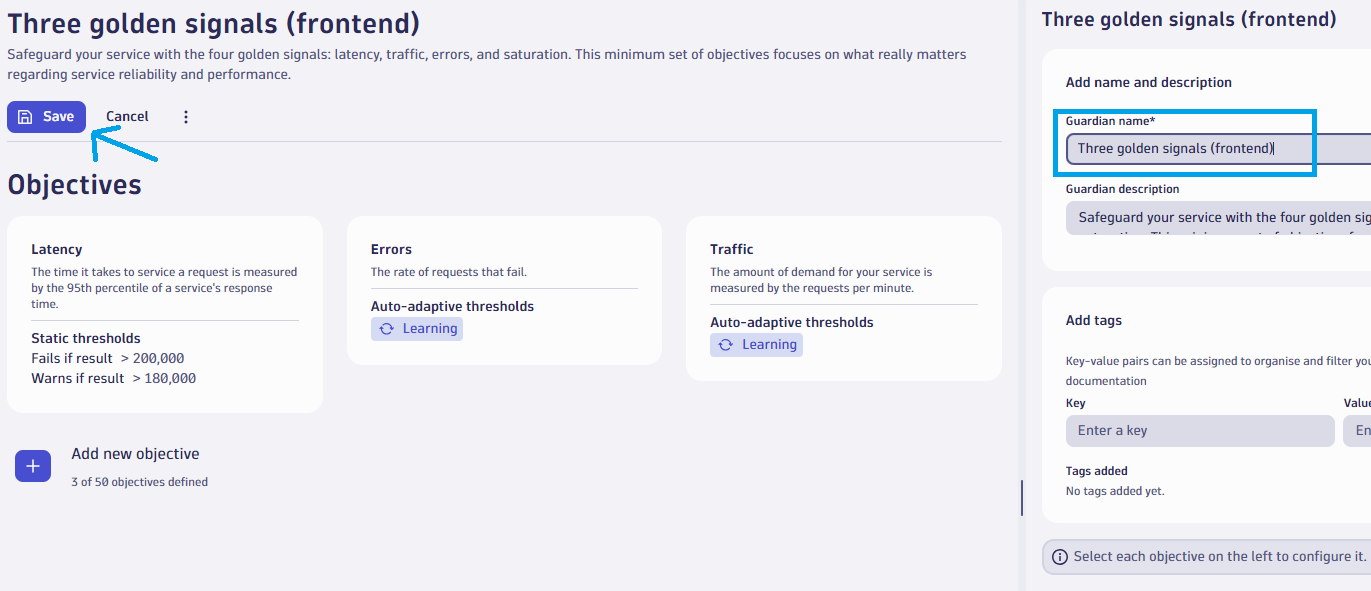
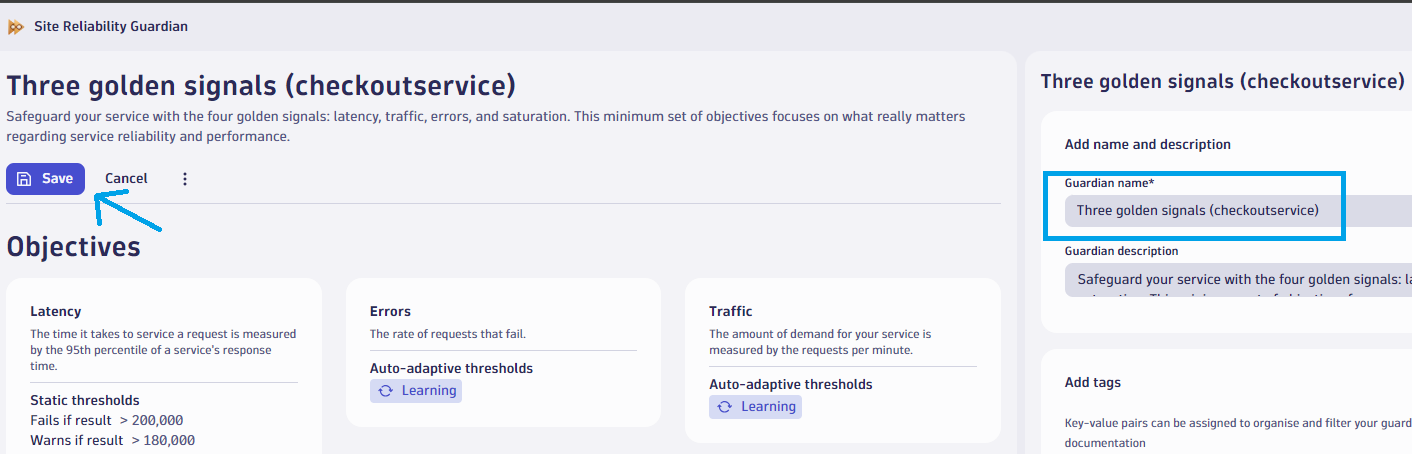
update

diff --git a/docs/create-srg.md b/docs/create-srg.md
@@ -2,19 +2,20 @@
 
 [Site reliability guardians](https://docs.dynatrace.com/docs/platform-modules/automations/site-reliability-guardian){target="_blank"} are a mechanism to automate analysis when changes are made. They can be used in production (on a CRON) or as deployment checks (eg. pre and post deployment health checks, security checks, infrastructure health checks).
 
-We will create a guardian to check the `frontend` microservice that the user interacts with.
+We will create a guardian to check the `checkoutservice` microservice which is used during the purchase journey.
 
 * Press `ctrl + k` search for `Site Reliability Guardian` and select the app.
 * Click `+ Guardian` to add a new guardian.
 * Under `Four Golden Signals` choose `Use template`.
-* Click `Run query` and select `frontend`. Click `Apply to template (1)`.
+* Click `Run query` and toggle `50` rows per page to see more services.
+* Select the `checkoutservice`. Click `Apply to template (1)`.
 * Hover over the `Saturation` objective and delete it (there are no resource statistics from OpenTelemetry available so this objective cannot be evaluated).
-* At the top right of the screen, customise the guardian name to be called `Three golden signals (frontend)`.
+* At the top right of the screen, customise the guardian name to be called `Three golden signals (checkoutservice)`.
 * Click `Save`
 
 ![dynatrace site reliability guardian: screen 1](images/dt-srg-screen-1.png)
 ![dynatrace site reliability guardian: screen 2](images/dt-srg-screen-2.png)
-![dynatrace site reliability guardian: screen 3](images/dt-srg-screen-3.png) # TODO: Update screenshot to highlight `frontend` not `frontend-web`
+![dynatrace site reliability guardian: screen 3](images/dt-srg-screen-3.png)
 ![dynatrace site reliability guardian: screen 4](images/dt-srg-screen-4.png)
 ![dynatrace site reliability guardian: screen 5](images/dt-srg-screen-5.png)
 

diff --git a/docs/enable-change.md b/docs/enable-change.md
@@ -1,4 +1,4 @@
-A product manager informs you that they're ready to release their new feature to the world. They ask you to enable the feature and run the load test test in a dev environment.
+A product manager informs you that they're ready to release their new feature. They ask you to enable the feature and run the load test in a dev environment.
 
 They tell you that the new feature is behind a flag called `paymentServiceFailure` (yes, an obvious name for this demo) and they tell you to change the `defaultValue` from `off` to `on`.
 
@@ -6,12 +6,12 @@ They tell you that the new feature is behind a flag called `paymentServiceFailur
 
 Run the following script which:
 
-- Notifies Dynatrace using a `CUSTOM_INFO` event of the change inc. the new value and the remediation info should a problem occur
+- Notifies Dynatrace using a `CUSTOM_INFO` event of the change inc. the new value
 - Changes the `defaultValue` of the `paymentServiceFailure` feature flag to `on`
 - Applies the configuration change
 
 ```
-./runtimeChange.sh paymentServiceFailure on off
+./runtimeChange.sh paymentServiceFailure on
 ```
 
 # Enable Automatic Baselining for Site Reliability Guardian

diff --git a/docs/automate-srg.md b/docs/automate-srg.md
@@ -29,7 +29,7 @@ export function teardown() {
       "event.provider": "k6",
       "event.type": "test",
       "event.category": "finished",
-      "service": "frontend",
+      "service": "checkoutservice",
       "duration": test_duration
     }
     let res = http.post(`${__ENV.K6_DYNATRACE_URL}/platform/ingest/v1/events.sdlc`, JSON.stringify(payload), post_params);
@@ -38,7 +38,7 @@ export function teardown() {
 
 ## Create a Workflow to Trigger Guardian
 
-Ensure you are still on the `Three golden signals (frontend)` screen.
+Ensure you are still on the `Three golden signals (checkoutservice)` screen.
 
 * Click the `Automate` button. This will create a template workflow.
 * Change the `event type` from `bizevents` to `events`.
@@ -47,7 +47,7 @@ Ensure you are still on the `Three golden signals (frontend)` screen.
 ```
 event.type == "test"
 AND event.category == "finished"
-AND service == "frontend"
+AND service == "checkoutservice"
 ```
 
 * Click the `run_validation` node.

diff --git a/docs/index.md b/docs/index.md
@@ -15,7 +15,7 @@ Your job is to:
 
 To achieve these objectives, you will:
 
-* Create a Site Reliability Guardian to test and ensure the health of your microservices (starting with the most user impacting service - the `frontend`)
+* Create a Site Reliability Guardian to test and ensure the health of your microservices (starting with the most user impacting service - the `checkoutservice`)
 * Use the auto baselining capability of Dynatrace to suggest (and dynamically adjust) thresholds based on current and past performance.
 
 ## A New Release

diff --git a/README.md b/README.md
@@ -6,4 +6,3 @@ The docs are now build with mkdocs. `mkdocs serve` to see (or look at `/docs` fo
 - Address any TODOs in docs
 - Auto capture span attributes: `grpc.error_message`, `grpc.error_name` and `app.payment.amount` ([sample cURL here](https://github.com/dynatrace-perfclinics/traveladvisor/blob/55c3fabb5ec49cc03694057112ac69fe8edb2d64/.devcontainer/deployment.sh#L5))
 - Toggle the `paymentServiceFailure` feature flag + add docs
-- Investigate move guardian to `checkout` service and / or frontend + document
